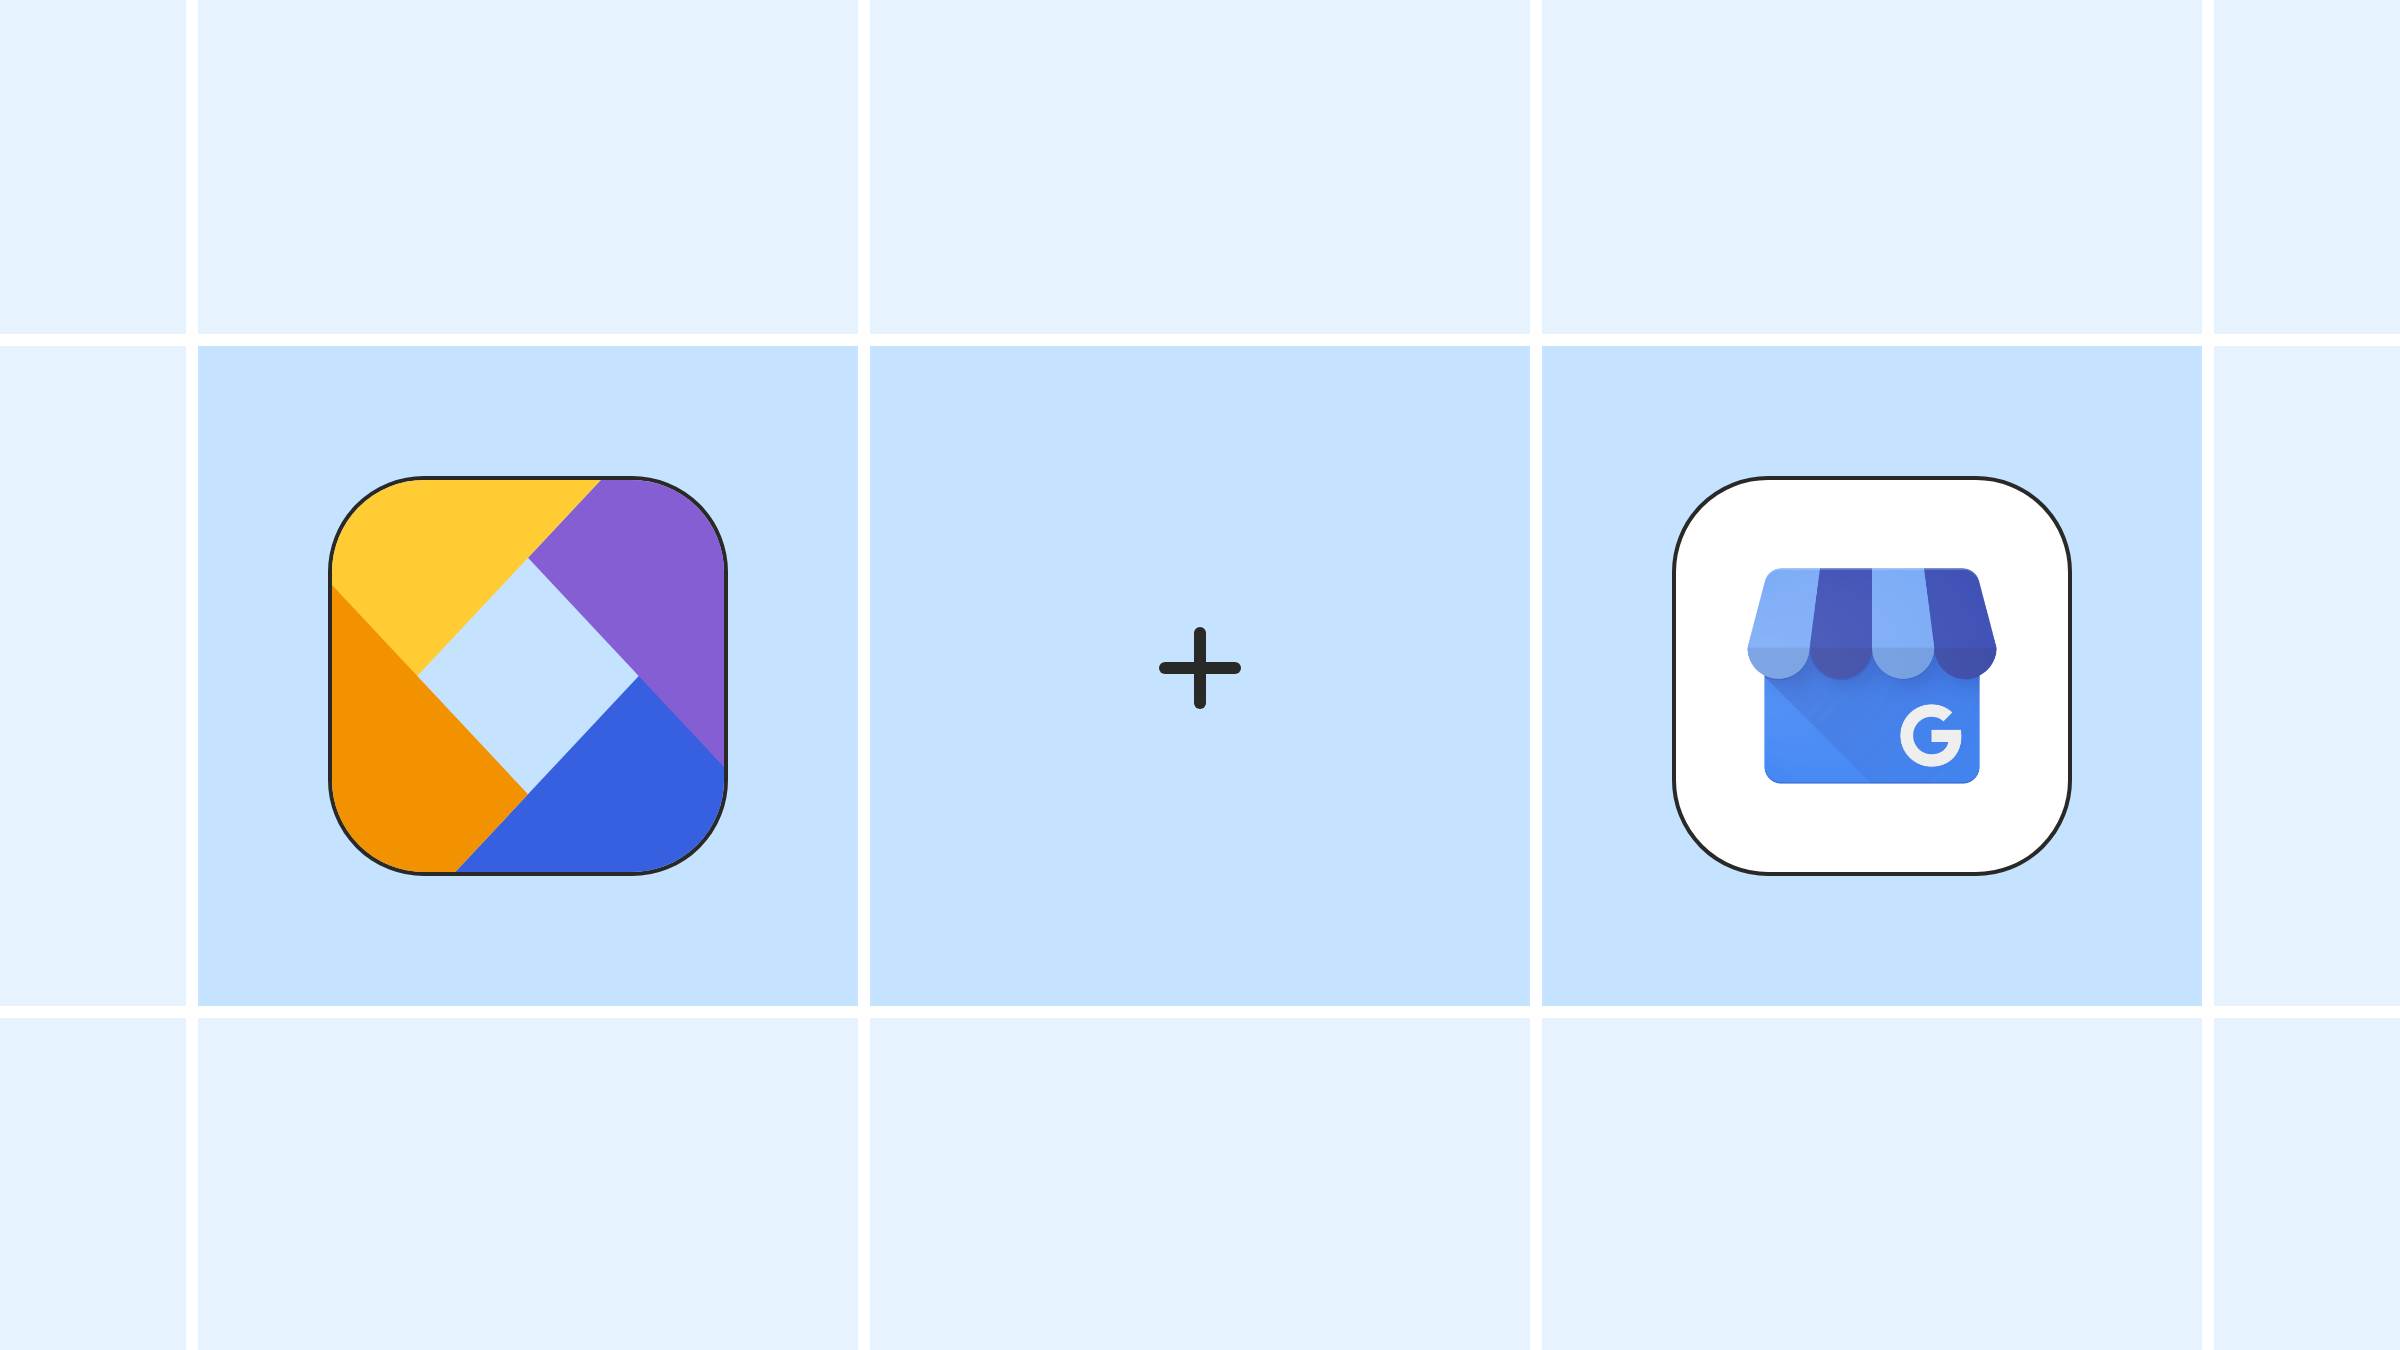
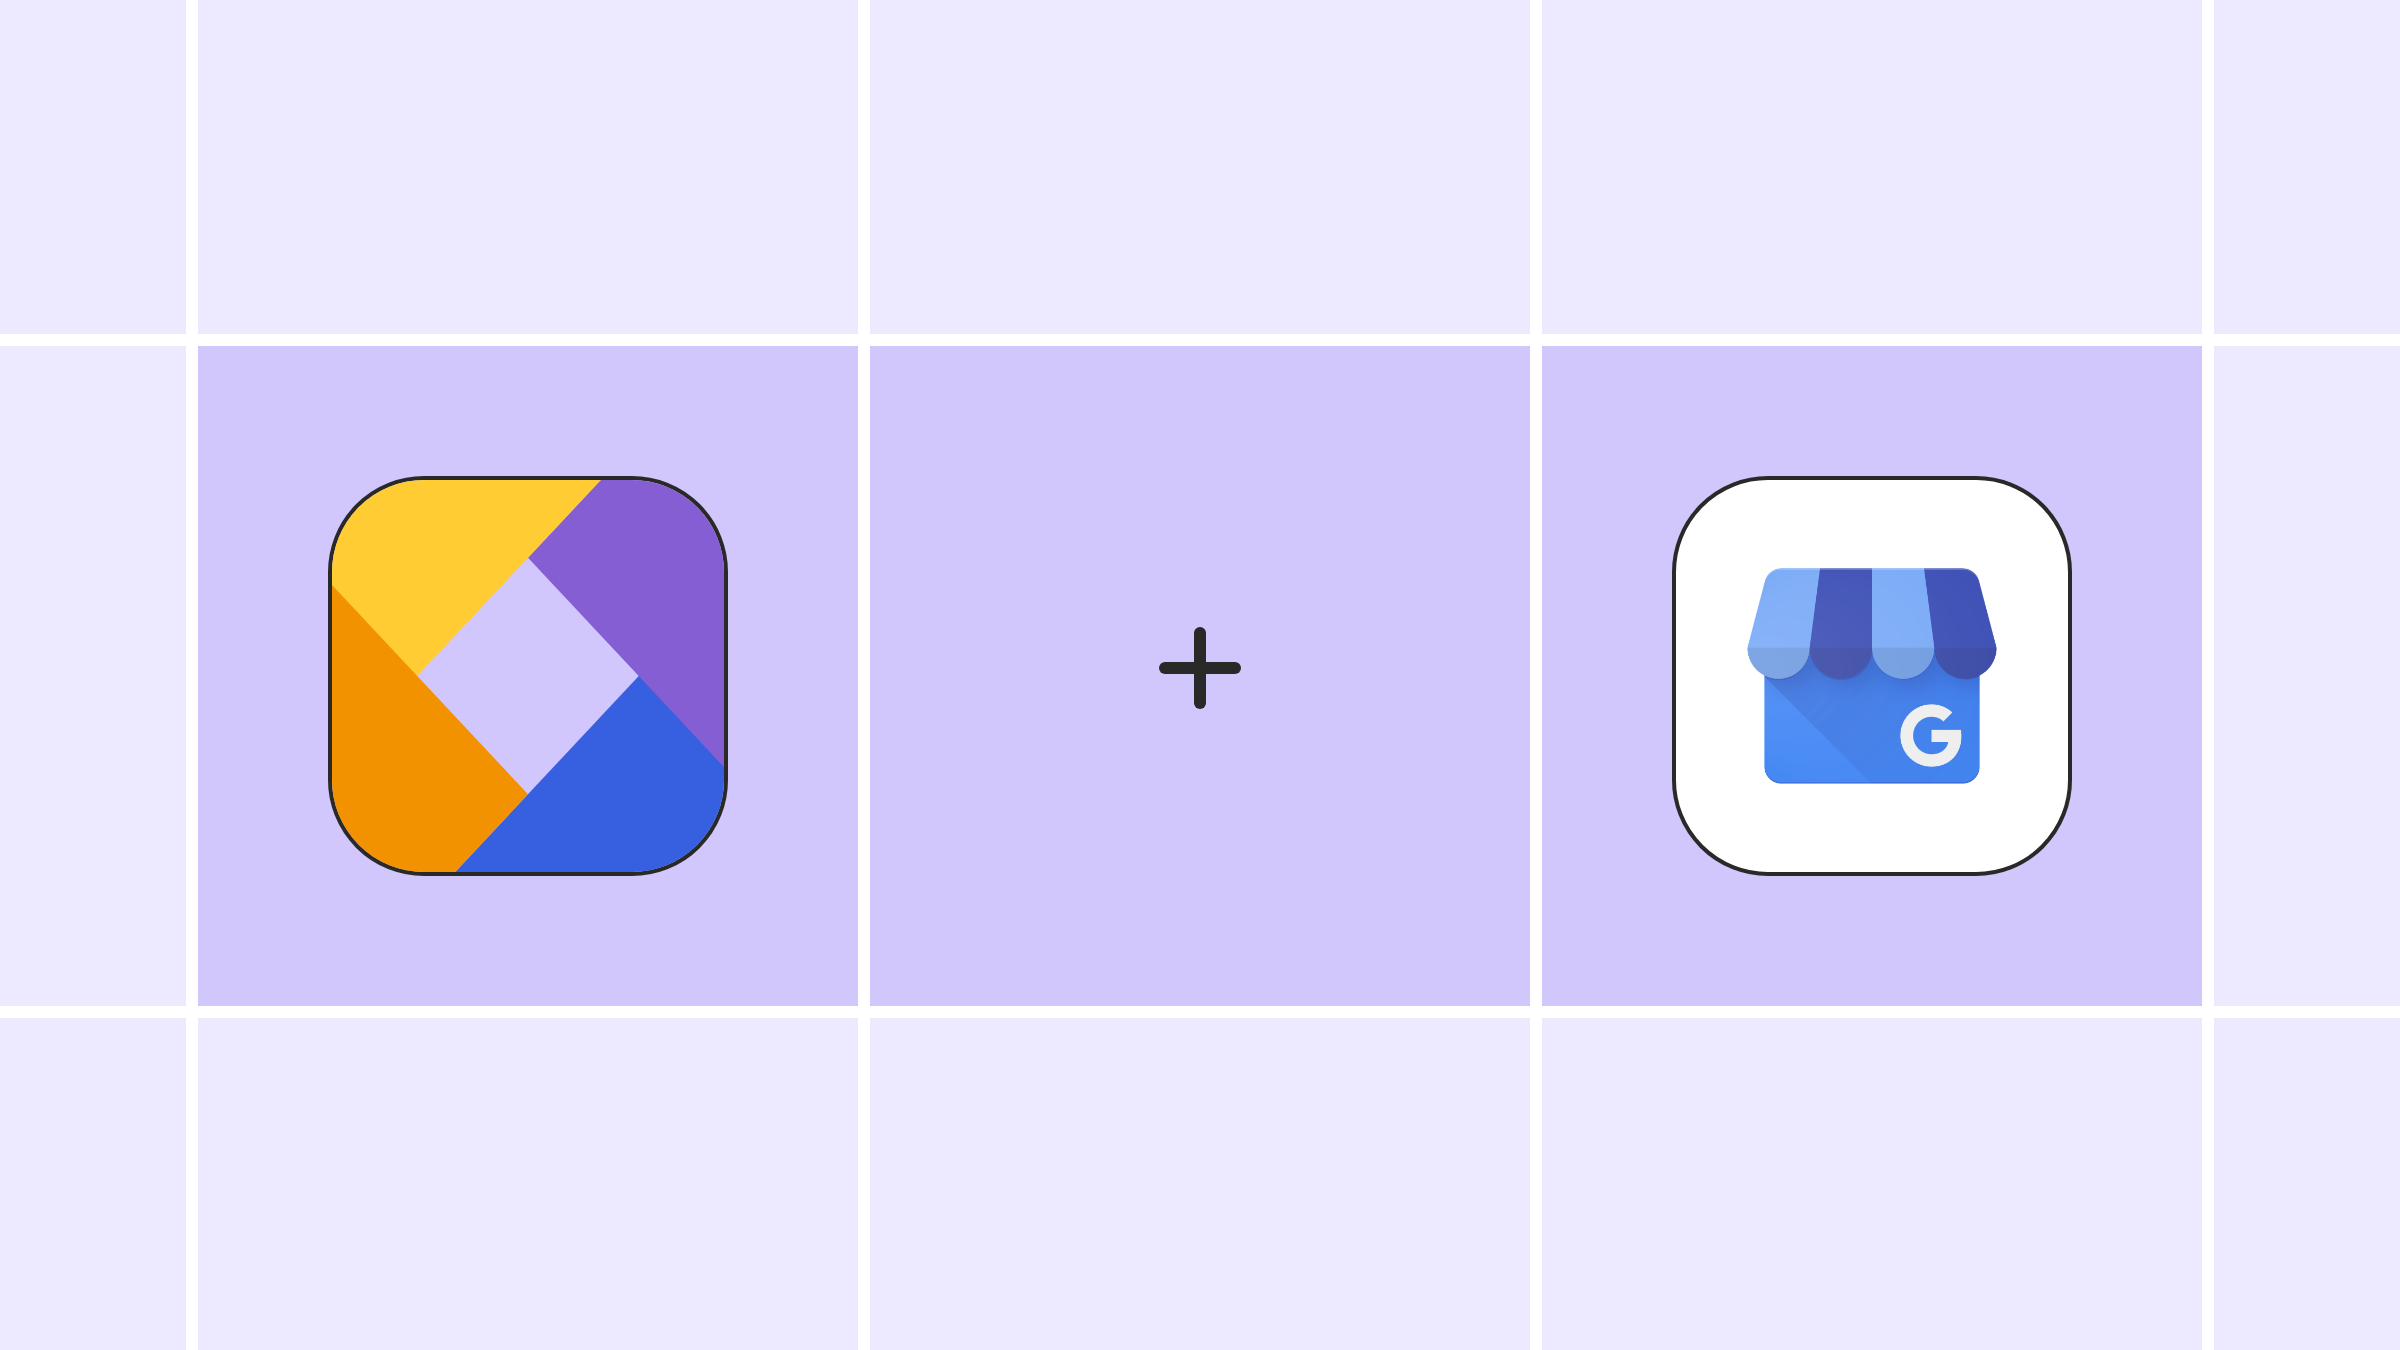
Replace the entry header title with an All updates link and make the integration cover violet

diff --git a/resources/js/components/changelog/ChangelogDialog.vue b/resources/js/components/changelog/ChangelogDialog.vue
@@ -1,6 +1,6 @@
 <script setup lang="ts">
 import { InfiniteScroll, router, useHttp, usePage } from '@inertiajs/vue3';
-import { IconArrowLeft, IconX } from '@tabler/icons-vue';
+import { IconChevronLeft, IconX } from '@tabler/icons-vue';
 import { computed, ref, useTemplateRef, watch } from 'vue';
 import { toast } from 'vue-sonner';
 
@@ -145,18 +145,23 @@ watch(activeEntry, (entry) => {
                 ref="header"
                 class="sticky top-0 z-10 flex h-16 shrink-0 items-center gap-2 bg-background px-6"
             >
-                <Button
-                    v-if="activeEntry"
-                    variant="ghost"
-                    size="icon"
-                    class="-ms-2"
-                    :aria-label="$t('common.back')"
-                    data-testid="changelog-back"
-                    @click="backToList"
-                >
-                    <IconArrowLeft class="size-4" />
-                </Button>
-                <DialogTitle class="text-lg font-semibold">
+                <template v-if="activeEntry">
+                    <button
+                        type="button"
+                        class="group -ms-1 inline-flex h-8 cursor-pointer items-center gap-1 rounded-md px-1 text-sm font-medium text-muted-foreground transition-colors outline-none hover:text-foreground focus-visible:outline-2 focus-visible:outline-offset-1 focus-visible:outline-ring"
+                        data-testid="changelog-back"
+                        @click="backToList"
+                    >
+                        <IconChevronLeft
+                            class="size-4 transition-transform group-hover:-translate-x-0.5"
+                        />
+                        All updates
+                    </button>
+                    <DialogTitle class="sr-only">
+                        {{ activeEntry.title }}
+                    </DialogTitle>
+                </template>
+                <DialogTitle v-else class="text-lg font-semibold">
                     <span aria-hidden="true">✨</span>
                     What's New
                 </DialogTitle>

diff --git a/.claude/release-assets/changelog-covers/integration.html b/.claude/release-assets/changelog-covers/integration.html
@@ -4,11 +4,10 @@
   official logo in the middle row.
   Fixed: the grid, the TryPost mark on the left, the plus in the center.
   Swap: the service's official logo on the right (a PNG in logos/, from the
-  brand's own assets, never a look-alike icon) and the tint pair: blue by
-  default, or the one that suits that logo best (tiles-green, tiles-peach,
-  tiles-violet).
+  brand's own assets, never a look-alike icon). The tint stays violet, like
+  every other cover.
 -->
-<div class="canvas tiles tiles-blue">
+<div class="canvas tiles tiles-violet">
     <i></i><i></i><i></i><i></i><i></i>
     <i></i>
     <b><span class="app-icon is-mark">{{TRYPOST_MARK}}</span></b>

diff --git a/tests/Browser/ChangelogTest.php b/tests/Browser/ChangelogTest.php
@@ -120,7 +120,10 @@ test('opening the sidebar card shows the newest entry, records the view, hides t
     waitForChangelogText($page, 'changelog-entry-title', 'Newest feature');
     $page->assertSeeIn('@changelog-entry', 'The newest feature body.')
         ->assertSeeIn('@changelog-entry-tags', 'New')
-        ->assertSeeIn('@changelog-entry-tags', 'Beta');
+        ->assertSeeIn('@changelog-entry-tags', 'Beta')
+        ->assertSeeIn('@changelog-back', 'All updates');
+    expect($page->script("document.querySelector('[data-testid=\"changelog-dialog\"]').getAttribute('aria-labelledby') && document.getElementById(document.querySelector('[data-testid=\"changelog-dialog\"]').getAttribute('aria-labelledby')).textContent.trim()"))
+        ->toBe('Newest feature');
     waitForChangelogTestIdGone($page, 'changelog-card');
 
     expect(ChangelogEntryView::where('user_id', $user->id)->pluck('changelog_entry_id')->all())

diff --git a/AGENTS.md b/AGENTS.md
@@ -777,10 +777,12 @@ entry, and a "What's New" modal (Help menu) listing every published entry.
   the row).
 - **The entries and the modal are English only** (owner decision 2026-10-14): the entries, the
   tag labels (`Tag::label()`), the modal title, its empty state, the "Do you like it?" block (its
-  `Like` / `Dislike` labels and its error toast) and the card's "Read more" are hard-coded English,
+  `Like` / `Dislike` labels and its error toast), the card's "Read more" and the entry's "All updates" button are hard-coded English,
   never lang keys. The exception is the Help menu item, which is part
-  of the app menu and is translated (`sidebar.support.changelog`, all 16 locales). The back and
-  close buttons' `aria-label`s reuse `common.back` / `common.close`.
+  of the app menu and is translated (`sidebar.support.changelog`, all 16 locales). The close
+  button's `aria-label` reuses `common.close`. An open entry's header drops the "What's New"
+  title for an "← All updates" button (English, like the rest) and the X; the dialog's title
+  for screen readers is then the entry's title (`sr-only`).
 - **"Viewed" means the user opened the entry's detail**, never that it was shown in the
   card or the list. `changelog_entry_views` holds one row per user and entry, and
   `ChangelogEntryViewObserver` queues `TrackChangelogEntryEvent` (`posthog` queue) when the row

diff --git a/.claude/commands/changelog.md b/.claude/commands/changelog.md
@@ -129,9 +129,8 @@ with three stronger tiles in the middle row. Nothing else goes on them.
 - Fixed: the grid, the TryPost mark on the left (filling its tile, no white square behind it),
   the `+` in the center, the service's white tile on the right.
 - Swap: the service's **official** logo, a PNG in `logos/` taken from the brand's own assets
-  (e.g. Google's `gstatic.com/images/branding/product`), never a look-alike Tabler icon; and the
-  tint, `tiles-blue` by default or whichever pair (`tiles-green`, `tiles-peach`, `tiles-violet`)
-  suits that logo best. No settings, no text.
+  (e.g. Google's `gstatic.com/images/branding/product`), never a look-alike Tabler icon. The tint stays
+  `tiles-violet`, like every cover. No settings, no text.
 
 **Template 3 · Announcement.**
 - Fixed: the grid, three emojis in the middle row, 📣 in the center.
